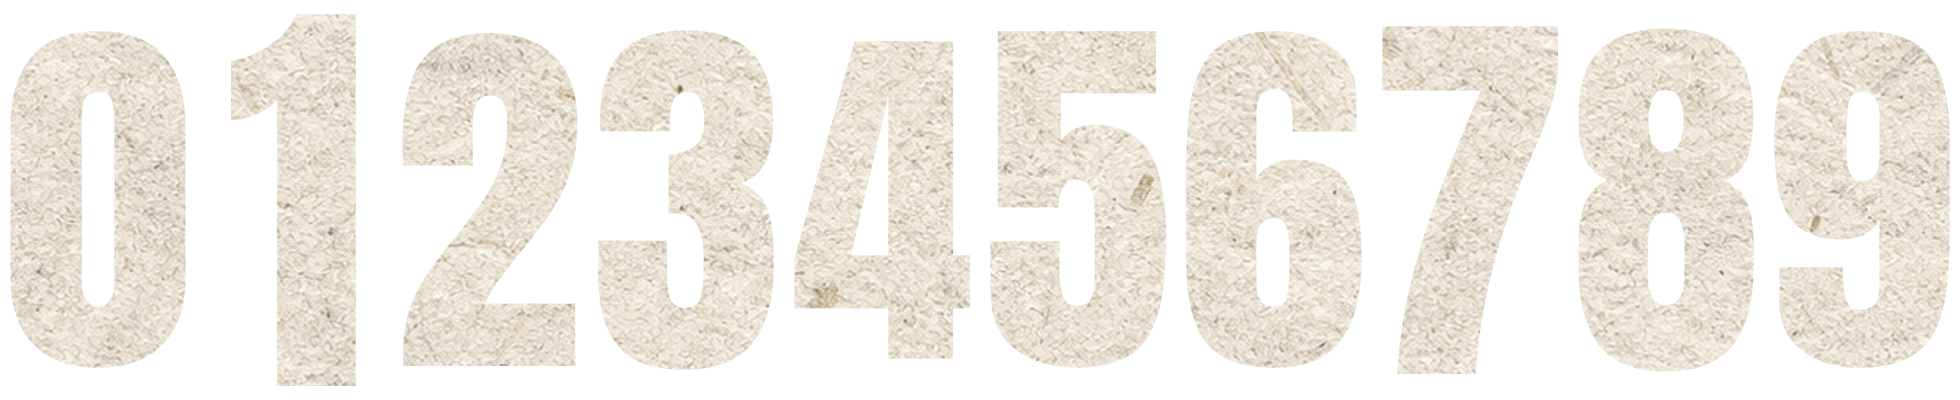
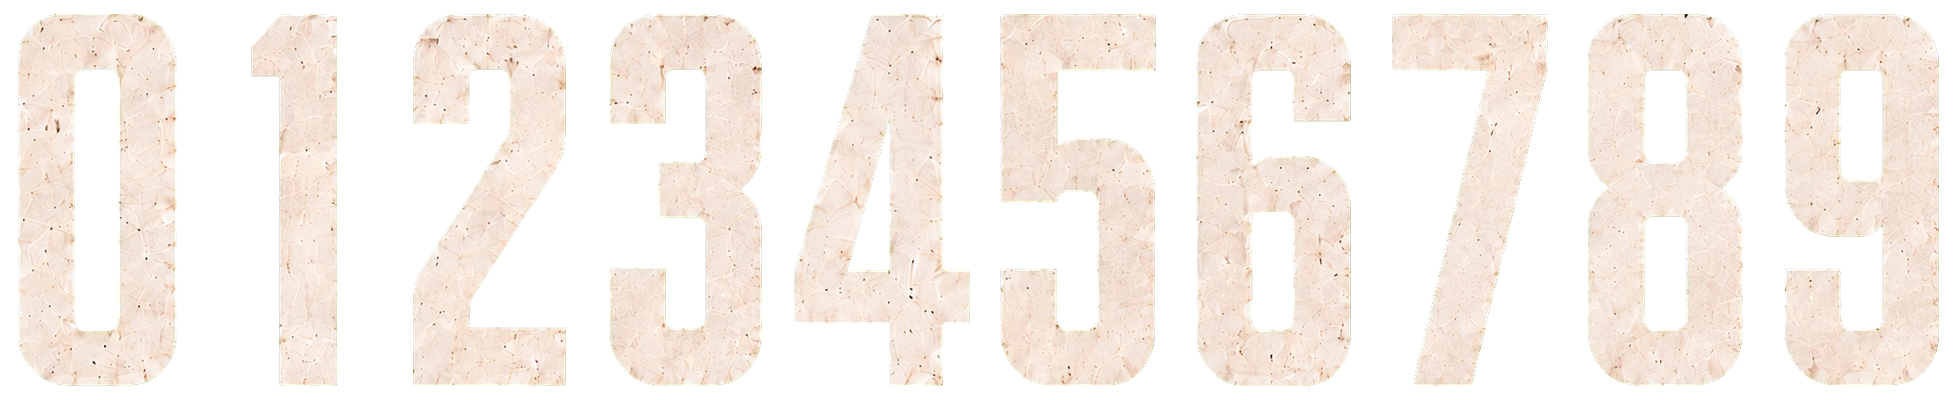
feat: 영수증 점수 숫자와 회전 손잡이 개선

Changed region(s): [[0.0, 0.03, 0.9959, 0.99]]

diff --git a/src/pages/MatchReceipt.jsx b/src/pages/MatchReceipt.jsx
@@ -853,6 +853,22 @@ export default function MatchReceipt({ auth, app }) {
                 onDoubleClick: resetPhotoTransform,
               }}
             />
+            {photoUrl ? (
+              <Button
+                variant="secondary"
+                className="match-receipt-photo-rotate-handle"
+                aria-label="사진 자유 회전"
+                title="드래그해 자유 회전 · 방향키로 미세 조정"
+                onPointerDown={beginPhotoRotation}
+                onPointerMove={movePhotoRotation}
+                onPointerUp={endPhotoRotation}
+                onPointerCancel={endPhotoRotation}
+                onLostPointerCapture={endPhotoRotation}
+                onKeyDown={nudgePhotoRotation}
+              >
+                <RotateCcw aria-hidden="true" />
+              </Button>
+            ) : null}
           </div>
           <div className="match-receipt-photo-tools">
             <div className="match-receipt-photo-actions" aria-label="미리보기 사진 편집">
@@ -861,22 +877,6 @@ export default function MatchReceipt({ auth, app }) {
                 <input type="file" accept="image/jpeg,image/png,image/webp" disabled={busy === "photo"} onChange={handlePhotoChange} />
               </Button>
               <Button variant="secondary" onClick={() => updateField("photoRotation", draft.photoRotation + 90)}><RotateCcw aria-hidden="true" /> 90° 회전</Button>
-              {photoUrl ? (
-                <Button
-                  variant="secondary"
-                  className="match-receipt-photo-rotate-handle"
-                  aria-label="사진 자유 회전"
-                  title="드래그해 자유 회전 · 방향키로 미세 조정"
-                  onPointerDown={beginPhotoRotation}
-                  onPointerMove={movePhotoRotation}
-                  onPointerUp={endPhotoRotation}
-                  onPointerCancel={endPhotoRotation}
-                  onLostPointerCapture={endPhotoRotation}
-                  onKeyDown={nudgePhotoRotation}
-                >
-                  <RotateCcw aria-hidden="true" /> 자유 회전
-                </Button>
-              ) : null}
               <Button variant="secondary" onClick={resetPhotoTransform}>초기화</Button>
               {photoUrl ? <Button variant="danger" onClick={removePhoto}><Trash2 aria-hidden="true" /> 제거</Button> : null}
             </div>

diff --git a/src/styles/features/match-receipt.css b/src/styles/features/match-receipt.css
@@ -240,12 +240,23 @@
   cursor: grabbing;
 }
 
-.match-receipt-photo-rotate-handle {
-  cursor: grab;
-  touch-action: none;
+.match-receipt-preview-stage button.ui-button.match-receipt-photo-rotate-handle {
+  position: absolute; z-index: 4;
+  top: 0; right: 0;
+  width: 38px; height: 38px;
+  min-width: 38px; min-height: 38px;
+  display: grid; place-items: center;
+  padding: 0;
+  border-radius: 50%; color: var(--rb-orange);
+  background: var(--rb-surface);
+  box-shadow: inset 0 0 0 var(--ui-stroke-width) var(--rb-orange);
+  transform: translate(58%, -58%);
+  cursor: grab; touch-action: none;
 }
 
-.match-receipt-photo-rotate-handle:active {
+.match-receipt-preview-stage button.match-receipt-photo-rotate-handle svg { width: 18px; height: 18px; }
+
+.match-receipt-preview-stage button.match-receipt-photo-rotate-handle:active {
   cursor: grabbing;
 }
 
@@ -779,5 +790,9 @@
 
   .match-receipt-card {
     border-radius: 0;
+  }
+
+  .match-receipt-preview-stage button.match-receipt-photo-rotate-handle {
+    transform: translate(18%, -58%);
   }
 }

diff --git a/docs/design-system.md b/docs/design-system.md
@@ -2813,7 +2813,7 @@ UI 수정 전:
 1. 경기 영수증은 기준 이미지와 동일한 9:16 검정·주황 스포츠 포스터 구도와 비율을 고정한다. 상단 경기 사진, 실제 BOXTIER 로고 에셋과 serial, 검은 전환부, 경기 성격, 중앙 대형 점수, 팀명·티어 엠블럼, 하단 찢긴 종이 형태의 장소·날짜·개인 스탯·QR을 기준 이미지와 같은 상대 위치·크기로 배치하며 내용만 바꾼다. 반응형에서는 전체 포스터를 균일 축소하고 내부 요소를 재배치하지 않는다.
 2. 저장 이미지는 Story `1080×1920`, Feed `1080×1350` 규격을 정확히 사용하고 핵심 정보를 안전 영역 안에 둔다. 브라우저 미리보기와 Canvas 저장 결과는 같은 ViewModel과 사진 변환값을 사용한다.
 3. 영수증 점수·경기 성격·미확정 `MATCH RECEIPT`는 로컬 `Bebas Neue`, 팀명은 로컬 `Black Han Sans`를 사용한다. 추가 글꼴은 OFL 원문과 함께 배포하며 폰트 파일을 개작하지 않는다. `BOXTIER` 표기는 새로 조판하지 않고 canonical 로고 에셋을 사용한다.
-4. 사용자가 선택한 배경 사진은 영수증 미리보기의 상단 사진 영역 자체에서 모바일 한 손가락 이동과 두 손가락 이동·확대·축소·회전을 지원한다. 데스크톱은 사진 내부 가로·세로 드래그 이동, 휠 확대·축소, 미리보기 바깥 자유 회전 버튼 드래그, 더블클릭 초기화를 제공한다. 별도 크롭 박스와 슬라이더는 두지 않고 사진 선택·90도 회전·자유 회전·초기화·제거와 서버 미업로드 안내는 영수증 카드 바깥의 공용 버튼 영역에 둔다. 사진 원본은 서버에 보내지 않으며 저장 Canvas에는 편집 버튼·안내를 렌더링하지 않는다.
+4. 사용자가 선택한 배경 사진은 영수증 미리보기의 상단 사진 영역 자체에서 모바일 한 손가락 이동과 두 손가락 이동·확대·축소·회전을 지원한다. 데스크톱은 사진 내부 가로·세로 드래그 이동, 휠 확대·축소, 미리보기 바깥 자유 회전 손잡이 드래그, 더블클릭 초기화를 제공한다. 별도 크롭 박스와 슬라이더는 두지 않고 사진 선택·90도 회전·초기화·제거와 서버 미업로드 안내는 영수증 카드 바깥의 공용 버튼 영역에 둔다. 사진 원본은 서버에 보내지 않으며 저장 Canvas에는 편집 버튼·안내를 렌더링하지 않는다.
 5. 공유 이미지에는 지도 타일이나 지도 화면 캡처를 넣지 않고 장소명, 짧은 주소, 위치 아이콘만 표시한다. QR은 canonical 경기 또는 서버 공개 영수증 페이지를 가리킬 때만 표시하며 소유권 비밀을 포함하지 않는다.
 6. 편집기와 미리보기는 데스크톱에서 2열, 모바일에서 1열로 배치한다. light/dark 테마에서도 영수증 자체의 검정·주황·크림 포스터 정체성은 유지한다.
 7. 점수 위 고정 문구를 사용하지 않는다. 사용자가 선택하거나 canonical 경기에서 매핑한 `FRIENDLY`, `COMPETITIVE`, `REVENGE`, `SEMIFINAL`, `FINAL` 경기 성격을 미리보기와 저장 PNG에 동일하게 표시한다.
@@ -2831,8 +2831,8 @@ UI 수정 전:
 19. 중립 선화는 홈·어웨이별 별도 PNG를 사용한다. 홈은 겹잎 월계수, 어웨이는 각형 날개·코트 지지대·작은 기하 포인트를 외곽 모티프로 사용한다. 중앙의 이중 방패와 팀 티어 계열의 공·림·골망 구조, 금색 획 굵기는 통일한다. 림은 양쪽 모두 수평 정면으로 두고 농구공 패널선 방향과 외곽 장식으로 좌우를 구분한다.
 20. 영수증 자유 입력값은 편집 중 공백을 보존하고 검증·저장·렌더링 경계에서만 정규화한다. 지도에서 구장을 확정하면 장소명과 짧은 주소를 한 번에 반영한다. 한 줄 코멘트는 개인 티어·개인 스탯 유무와 관계없이 하단 개인 기록 열에 표시한다. 영수증 QR은 별도 상자·그림자·불투명 여백 없이 찢긴 종이 위에 직접 놓고, 둥근 검은 모듈, 주황색 finder 중심과 작은 주황색 `B` 중앙 배지를 사용하되 공개 조회 URL만 담고 스캔 가능성을 검증한다.
 21. 하단 경기 결과는 `HOME WIN`·`AWAY WIN` 같은 좌우 역할명이 아니라 실제 승리 팀명을 사용해 `{팀명} WIN`으로 표시하고 동점은 `DRAW`로 표시한다.
-22. 중앙 점수 숫자는 Anton 원형을 제작 단계에서 변형 없이 래스터로 구운 `0~9` 투명 PNG 아틀라스에서 조합한다. 각 숫자는 `196:400` 셀 안의 `176:372` 영역을 사용해 기준 포스터의 넓고 긴 블록 비율을 유지한다. 런타임 폰트 렌더링·임의 벡터 경로·글자별 가로 압축을 금지하며 굵은 갱지 섬유와 인쇄 얼룩을 에셋에 내장한다. 미리보기와 Canvas 저장은 동일한 셀 크롭을 사용한다. 포스터 하단과 찢어진 종이에는 미세 노이즈보다 큰 섬유와 불규칙 얼룩이 읽히는 동일 canonical 종이 텍스처를 사용한다.
+22. 중앙 점수 숫자는 사용자가 승인한 `0~9` 래스터 원본에서 녹색 배경만 투명 처리한 PNG 아틀라스로 조합한다. 숫자 외곽·곡선·직선·갱지 섬유·인쇄 얼룩은 다시 그리거나 벡터화하지 않는다. 각 숫자는 `196:400` 셀 안의 `176:372` 영역을 사용하며 런타임 폰트 렌더링·임의 벡터 경로·글자별 가로 압축을 금지한다. 미리보기와 Canvas 저장은 동일한 셀 크롭을 사용한다. 포스터 하단과 찢어진 종이에는 미세 노이즈보다 큰 섬유와 불규칙 얼룩이 읽히는 동일 canonical 종이 텍스처를 사용한다.
 23. 사진 하단은 사진 영역 42%부터 블러와 검은 반투명 마스크를 연속 그라데이션으로 누적해 검은 본문과 경계 없이 연결하고, 본문 종이 질감도 같은 전환 구간에서 서서히 합성한다. 미리보기와 Canvas 저장은 같은 시작점과 명암 곡선을 사용한다. 점수 뒤 팀 워터마크는 하단이 잘리지 않도록 팀 영역 끝까지 확보하고, 팀명 아래 엠블럼은 실제 티어 82%, 중립 76% 불투명도로 표시한다.
 24. `GAME INFO`의 경기 형식은 영문 `3v3`, `5v5`, `OTHER`로 표시하고 경기 성격보다 크게 강조한다.
-25. 자유 회전 버튼은 미리보기 바깥 사진 편집 버튼 줄에 공용 `Button`으로 두고, 드래그 각도는 실제 사진 프레임 중심을 기준으로 계산한다. 사진 영역 내부에는 편집 UI를 겹치지 않는다. 사진 선택·90도 회전·초기화·제거도 공용 `Button`과 canonical variant를 사용한다.
+25. 자유 회전은 사진 출력 영역 오른쪽 위 바깥 모서리의 고정된 38px 주황색 원형 아이콘 손잡이 하나로 제공하고, 별도 편집 버튼 줄에는 반복해 두지 않는다. 손잡이의 드래그 각도는 실제 사진 프레임 중심을 기준으로 계산하며 사진 영역 내부 콘텐츠를 가리지 않는다. 사진 선택·90도 회전·초기화·제거는 공용 `Button`과 canonical variant를 사용한다.
 26. 확정 경기의 공용 방 모달 하단에는 `경기 영수증 만들기` 주 버튼과 `방 닫기`를 함께 표시하고 canonical 경기 ID로 영수증 화면에 진입한다.
